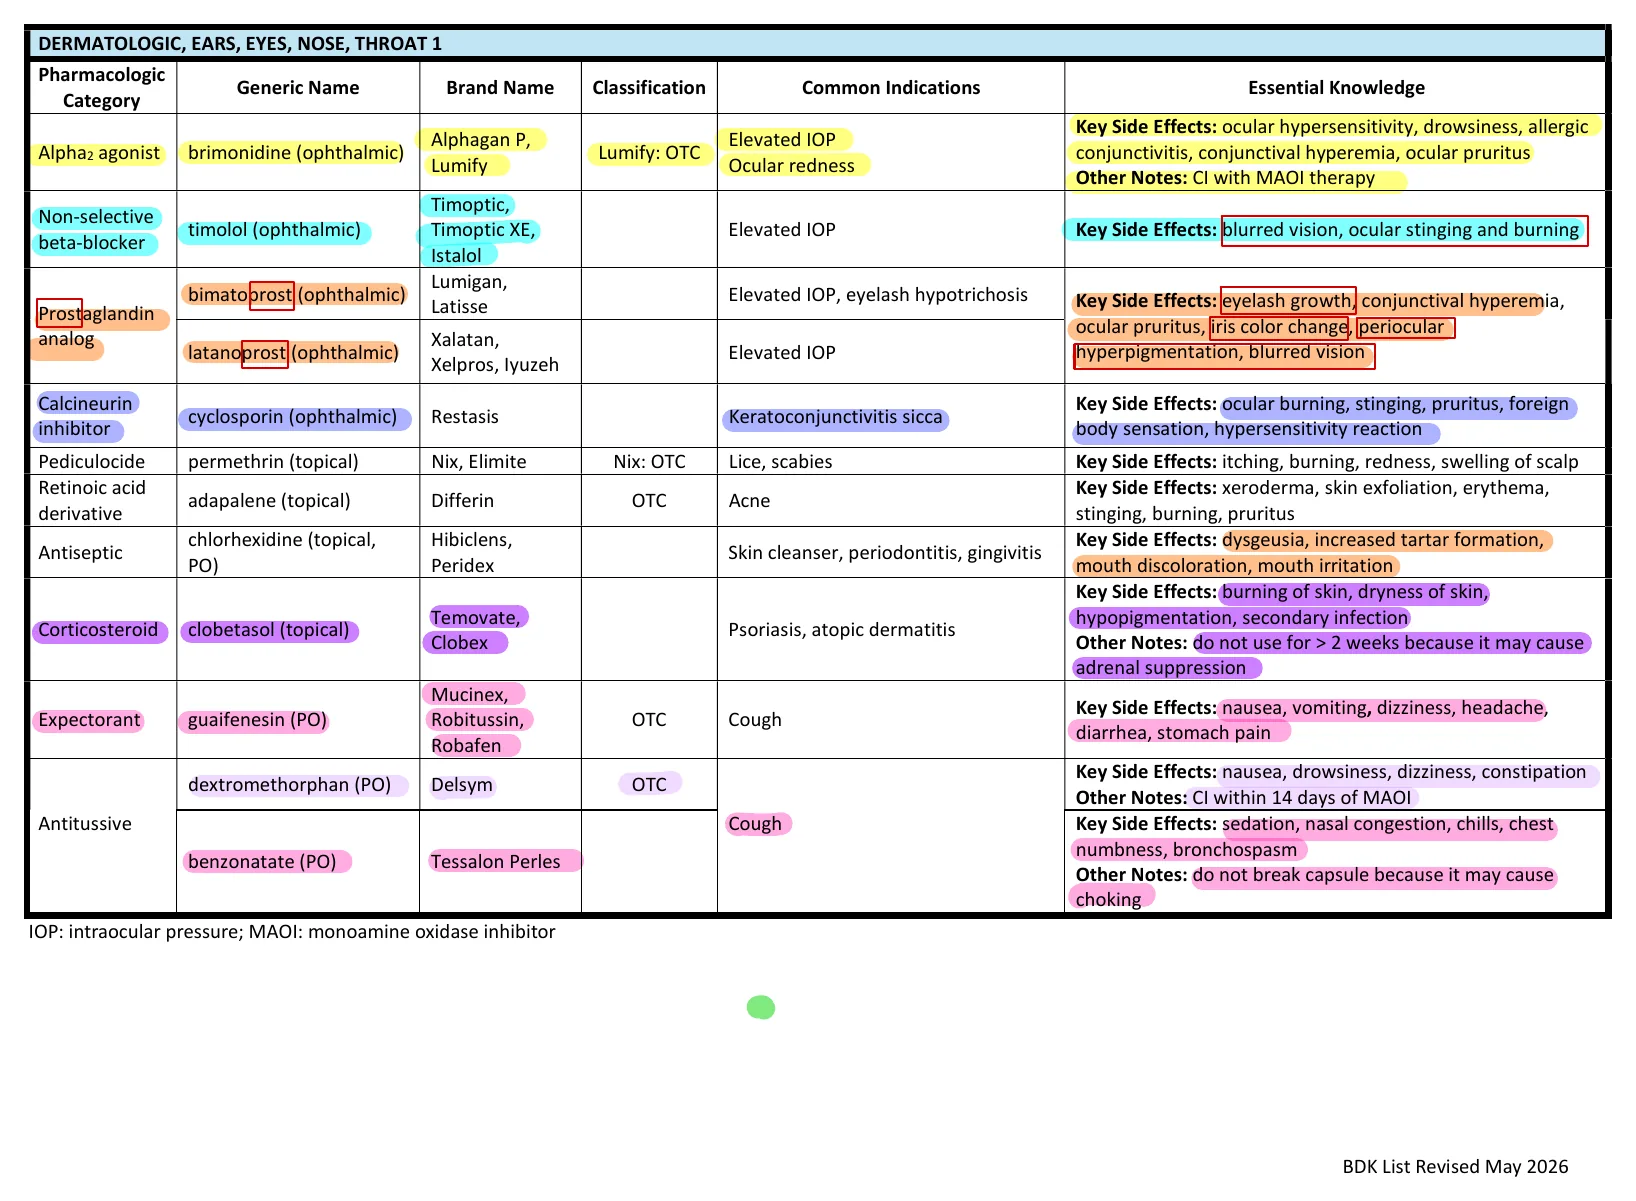
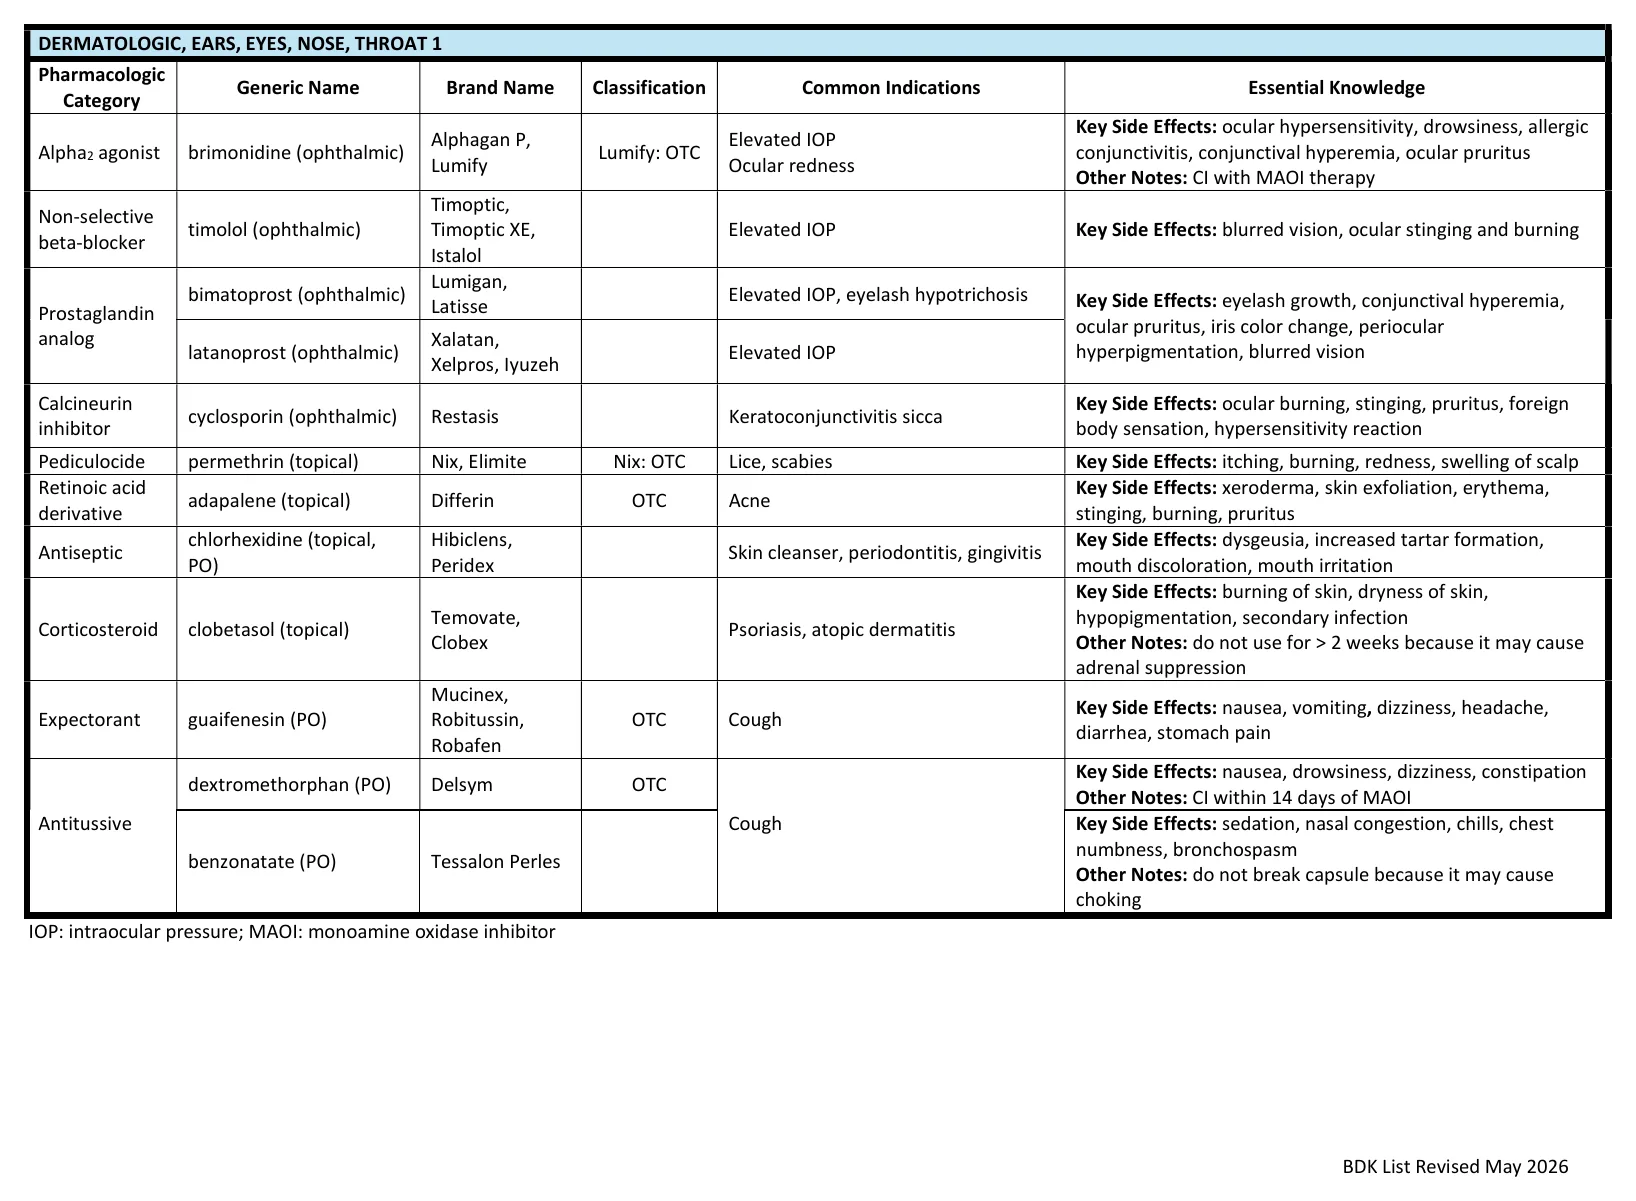
Replace highlighted PDF page images (p2-p4) with clean renders
Louis supplied an unmarked copy of the 2026-2027 BDK PDF. Its text matches
the copy the decks were built from exactly, so no cards change. Pages 2-4
of the old page images had highlighting; they are re-rendered from the
unmarked copy (pages 5-27 were already pixel-identical). Adds
tools/render_pages.py so the images can be rebuilt the same way.

Claude-Session: https://claude.ai/code/session_01VFuZTVkFFueZ8FXcDJ6GPF

diff --git a/assets/app.js b/assets/app.js
@@ -3,7 +3,7 @@
 
   // ====================================================================== constants
   // Must match version.json and the CACHE name in sw.js (tools/bump-version.sh updates all three).
-  const APP_VERSION = 'v13';
+  const APP_VERSION = 'v14';
   // Plain-language topics; each covers question kinds from the Quizlet decks.
   const TOPICS = [
     { id: 'names', label: 'Brand ↔ generic', kinds: ['brand', 'generic'] },

diff --git a/sw.js b/sw.js
@@ -1,5 +1,5 @@
 // Offline support. Network first (so updates show up right away), cache as the fallback.
-const CACHE = 'bdk-v13';
+const CACHE = 'bdk-v14';
 const SHELL = ['./', 'index.html', 'assets/style.css', 'assets/app.js', 'data/decks.json', 'data/glossary.json', 'manifest.webmanifest', 'assets/icon-192.png'];
 
 self.addEventListener('install', e => {

diff --git a/tools/render_pages.py b/tools/render_pages.py
@@ -1,0 +1,29 @@
+"""Render the BDK PDF's pages 2-27 to pages/p<n>.webp for the List tab's "PDF pages" view.
+
+Usage: python3 tools/render_pages.py <BDK.pdf> [out_dir=pages]
+Needs pdftoppm (poppler-utils) and Pillow with WebP support. Each page is rendered at 150 dpi,
+the white margins are trimmed (24 px kept), and it is saved as WebP quality 82. The image sizes
+used by the page are printed as a PAGE_IMG map for assets/app.js.
+"""
+import json
+import subprocess
+import sys
+import tempfile
+from pathlib import Path
+
+from PIL import Image, ImageOps
+
+pdf, out = Path(sys.argv[1]), Path(sys.argv[2] if len(sys.argv) > 2 else 'pages')
+out.mkdir(exist_ok=True)
+dims = {}
+with tempfile.TemporaryDirectory() as tmp:
+    subprocess.run(['pdftoppm', '-r', '150', '-f', '2', '-l', '27', '-png', str(pdf), f'{tmp}/p'], check=True)
+    for png in sorted(Path(tmp).glob('p-*.png')):
+        n = int(png.stem.split('-')[1])
+        im = Image.open(png).convert('RGB')
+        box = ImageOps.invert(im.convert('L')).point(lambda v: 255 if v > 20 else 0).getbbox()
+        pad = 24
+        im = im.crop((max(0, box[0] - pad), max(0, box[1] - pad), min(im.width, box[2] + pad), min(im.height, box[3] + pad)))
+        im.save(out / f'p{n}.webp', 'WEBP', quality=82, method=6)
+        dims[n] = list(im.size)
+print('const PAGE_IMG = ' + json.dumps(dims, separators=(',', ':')) + ';')

diff --git a/reviews/LOG.md b/reviews/LOG.md
@@ -6,3 +6,8 @@ Newest entries at the bottom. One entry per run.
 - Test suite added (`tests/run-all.sh`: data, ui, refresh, cram, regression): all passed.
 - Found and fixed while building it: two "which drug?" questions became identical once drug names were hidden (fentanyl/oxycodone CYP3A4 warning, now one Select ALL question); a duplicated potassium chloride "pick the item" question.
 - Added: "new version" card with refresh that keeps your place; Back button and "Back to your …" bar.
+
+## 2026-10-28 — clean PDF page images
+- Louis supplied an unmarked copy of the PDF. Its text is identical to the copy the decks were built from (pdftotext diff: 0 lines), so no card changed.
+- Pages 2, 3 and 4 of the old images carried highlighting; they are re-rendered from the unmarked copy (pages 5-27 were already pixel-identical). Added `tools/render_pages.py`.
+- Tests: all passed.

diff --git a/README.md b/README.md
@@ -40,6 +40,7 @@ cp out/BDK_2026-2027_Quizlet_Decks.zip downloads/
 ```
 
 - `extract.py` reads each page's table and its footer legend, and records which drugs share a merged cell (from the drawn cell rectangles), so a merged notes cell becomes one card naming every drug in it.
+- `render_pages.py` renders the PDF's pages 2-27 to `pages/p<n>.webp` for the List tab's PDF pages view (use an unmarked copy of the PDF).
 - `norm.py` undoes text-extraction artifacts only (displaced subscripts such as "Alpha2", hyphens at line breaks, font ligatures).
 - `build.py` writes the decks, runs the audit (every drug present, one tab per line, no duplicates or empty fields, ONLY/ALL matching item counts, Select ALL groups of 2+), and writes `build_report.md` with card counts, abbreviation sources, items flagged for review, and differences from the prior-year list.
 
